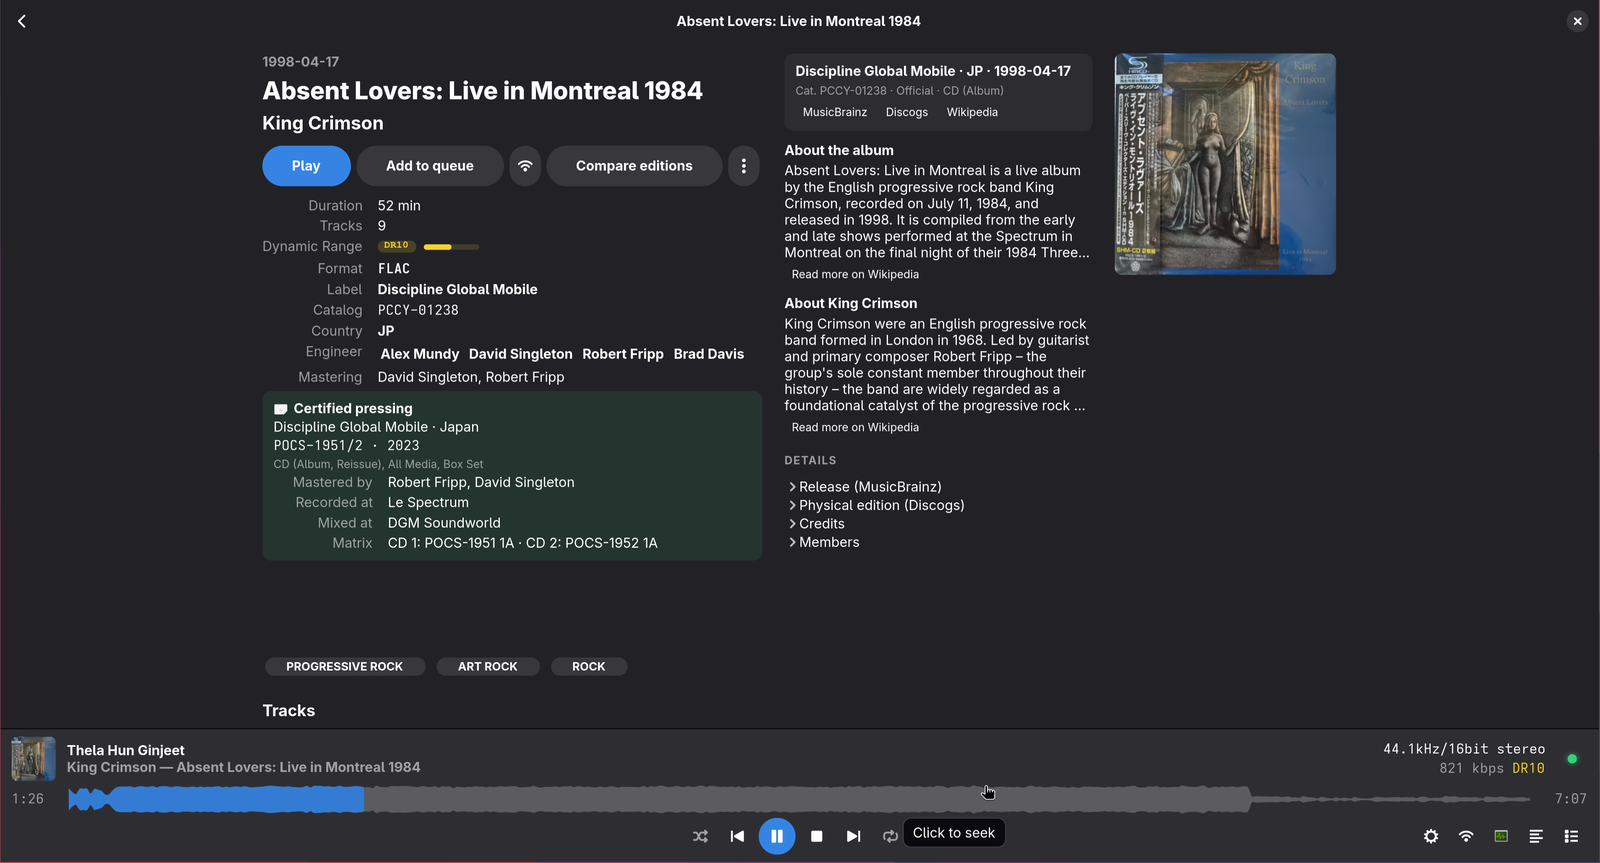
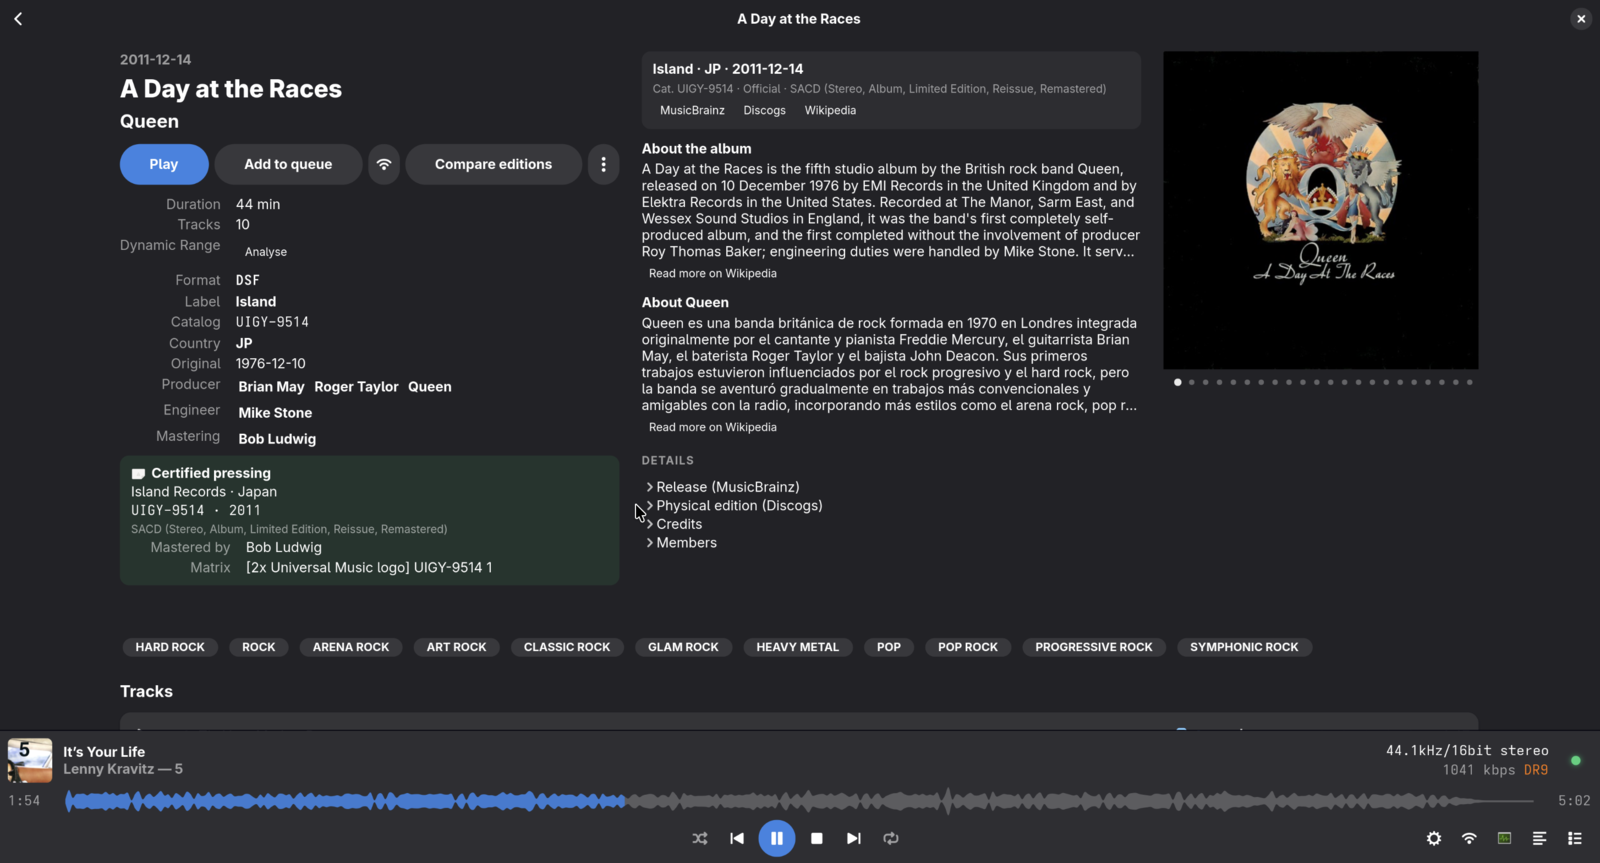
README: updated album page screenshot

diff --git a/README.md b/README.md
@@ -13,7 +13,7 @@
 <!-- VIDEO -->
 
 <p align="center">
-  <img src="docs/media/album.png" alt="Album page: the exact pressing's label, catalogue number and credits from MusicBrainz and Discogs, Wikipedia, DR14 and a certified-pressing card">
+  <img src="docs/media/album.png" alt="Album page (A Day at the Races, Japanese SACD): label, catalogue number and credits for the exact pressing from MusicBrainz and Discogs, Wikipedia, certified-pressing card and artwork">
   <br><em>The exact pressing: credits, catalogue number and country cross-checked with MusicBrainz and Discogs, DR14, certified pressing card</em>
 </p>
 
